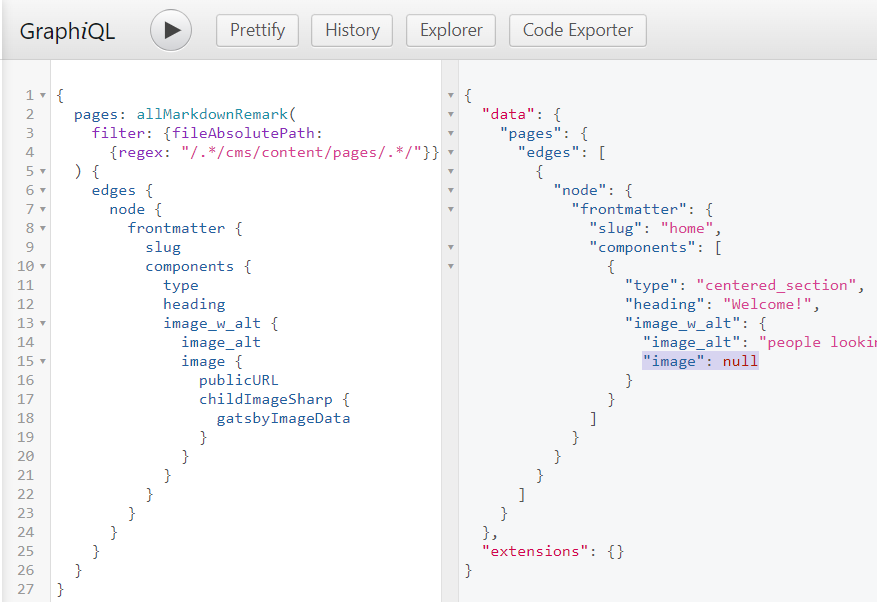
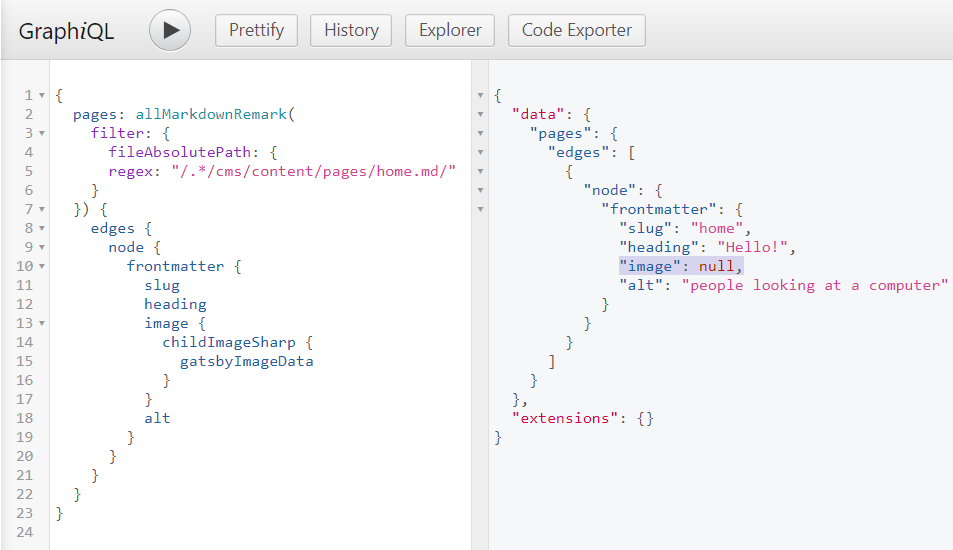
Simplify.

diff --git a/gatsby-node.ts b/gatsby-node.ts
@@ -1,61 +1,41 @@
 import { GatsbyNode } from "gatsby";
 import path from "path";
 
-type QueryBlock<T = object> = { edges: { node: { frontmatter: T } }[] };
-
-/** The bug occurs with or without these typings, but this is how our project is typed */
+/** The bug occurs with or without these typings, but this is similar to how our project is typed */
 export const createSchemaCustomization: GatsbyNode["createSchemaCustomization"] =
   ({ actions }) => {
-    const { createTypes } = actions;
-    const typeDefs = `
-      type ImageWAlt {
-        image: File @fileByRelativePath
-        image_alt: String
-      }
-
-      type Components {
-        type: String
-        heading: String
-        image_w_alt: ImageWAlt
-      }
-
+    actions.createTypes(`
       type MarkdownRemarkFrontmatter {
-        slug: String!
-        components: [Components]
+        image: File @fileByRelativePath
+        alt: String
       }
-    `;
-    createTypes(typeDefs);
+    `);
   };
 
 export const createPages: GatsbyNode["createPages"] = async ({
   actions,
   graphql,
 }) => {
-  const { createPage, createRedirect } = actions;
-
   const result = await graphql<{
-    pages: QueryBlock<{ slug: string }>;
+    pages: { edges: { node: { frontmatter: object } }[] };
   }>(`
     {
       pages: allMarkdownRemark(
-        filter: { fileAbsolutePath: { regex: "/.*/cms/content/pages/.*/" } }
+        filter: {
+          fileAbsolutePath: { regex: "/.*/cms/content/pages/home.md/" }
+        }
       ) {
         edges {
           node {
             frontmatter {
               slug
-              components {
-                type
-                heading
-                image_w_alt {
-                  image {
-                    childImageSharp {
-                      gatsbyImageData
-                    }
-                  }
-                  image_alt
+              heading
+              image {
+                childImageSharp {
+                  gatsbyImageData
                 }
               }
+              alt
             }
           }
         }
@@ -63,20 +43,13 @@ export const createPages: GatsbyNode["createPages"] = async ({
     }
   `);
 
-  if (result.errors) {
-    return Promise.reject(result.errors);
+  const context = result.data?.pages.edges?.[0].node.frontmatter;
+  if (!context) {
+    return Promise.reject(`query failed ${JSON.stringify(result, null, 2)}`);
   }
-  if (!result.data?.pages?.edges?.length) {
-    return Promise.reject("createPages query failed: no data");
-  }
-
-  const pageData = result.data.pages.edges.map((e) => e.node.frontmatter);
-  pageData.forEach((data) => {
-    const pagePath = data.slug === "home" ? "/" : `/${data.slug}/`;
-    createPage({
-      path: pagePath,
-      component: path.resolve(`src/templates/page.tsx`),
-      context: data,
-    });
+  actions.createPage({
+    path: "/",
+    component: path.resolve(`src/templates/page.tsx`),
+    context,
   });
 };

diff --git a/src/templates/page.tsx b/src/templates/page.tsx
@@ -4,40 +4,20 @@ import React, { FC } from "react";
 
 type PageTemplateProps = GatsbyPageProps<
   object,
-  { slug: string; components: Section[] }
+  {
+    heading: string;
+    image: { childImageSharp: { gatsbyImageData: IGatsbyImageData } };
+    alt: string;
+  }
 >;
-type Section = { type: string };
-type ImageWithAlt = {
-  image: { childImageSharp: { gatsbyImageData: IGatsbyImageData } };
-  image_alt: string;
-};
-
-type CenteredSection = Section & {
-  heading: string;
-  image_w_alt: ImageWithAlt;
-};
-
-const isCenteredSection = (data): data is CenteredSection =>
-  data.type === "centered_section";
 
 const PageTemplate: FC<PageTemplateProps> = ({ pageContext }) => {
+  const { gatsbyImageData } = pageContext.image.childImageSharp;
+  const image = getImage(gatsbyImageData);
   return (
     <>
-      <h1>{pageContext.slug}</h1>
-      {pageContext.components.map((c) => {
-        if (isCenteredSection(c)) {
-          const { gatsbyImageData } = c.image_w_alt.image.childImageSharp;
-          const image = getImage(gatsbyImageData);
-          return (
-            <>
-              <h2>{c.heading}</h2>
-              {image && (
-                <GatsbyImage image={image} alt={c.image_w_alt.image_alt} />
-              )}
-            </>
-          );
-        }
-      })}
+      <h2>{pageContext.heading}</h2>
+      {image && <GatsbyImage image={image} alt={pageContext.alt} />}
     </>
   );
 };

diff --git a/gatsby-config.ts b/gatsby-config.ts
@@ -45,6 +45,7 @@ const config: GatsbyConfig = {
       options: {
         plugins: [
           {
+            /* This is needed for Netlify CMS to correctly source uploads from static */
             resolve: `gatsby-remark-relative-images`,
             options: { staticFolderName: "static" },
           },
@@ -55,9 +56,10 @@ const config: GatsbyConfig = {
         ],
       },
     },
+    /* We're using this but it's not important for the repro steps
     {
       resolve: "gatsby-plugin-netlify-cms",
-    },
+    }, */
   ],
 };
 

diff --git a/README.md b/README.md
@@ -4,15 +4,12 @@ The Gatsby graph fails to query images in certain situations in a Netlify CMS pr
 
 #### Repro Steps:
 
-- `yarn` and `yarn develop`, the image will load fine in the dev server.
-- Open [GraphiQL](http://localhost:8000/___graphql) and paste the query from gatsby-node.ts
+- `yarn`, `yarn develop`, open [this GraphiQL query](<http://localhost:8000/___graphql?query=%7B%0A%20%20pages%3A%20allMarkdownRemark(%0A%20%20%20%20filter%3A%20%7B%0A%20%20%20%20%20%20fileAbsolutePath%3A%20%7B%0A%20%20%20%20%20%20regex%3A%20%22%2F.*%2Fcms%2Fcontent%2Fpages%2Fhome.md%2F%22%0A%20%20%20%20%7D%0A%20%20%7D)%20%7B%0A%20%20%20%20edges%20%7B%0A%20%20%20%20%20%20node%20%7B%0A%20%20%20%20%20%20%20%20frontmatter%20%7B%0A%20%20%20%20%20%20%20%20%20%20slug%0A%20%20%20%20%20%20%20%20%20%20heading%0A%20%20%20%20%20%20%20%20%20%20image%20%7B%0A%20%20%20%20%20%20%20%20%20%20%20%20childImageSharp%20%7B%0A%20%20%20%20%20%20%20%20%20%20%20%20%20%20gatsbyImageData%0A%20%20%20%20%20%20%20%20%20%20%20%20%7D%0A%20%20%20%20%20%20%20%20%20%20%7D%0A%20%20%20%20%20%20%20%20%20%20alt%0A%20%20%20%20%20%20%20%20%7D%0A%20%20%20%20%20%20%7D%0A%20%20%20%20%7D%0A%20%20%7D%0A%7D>)
+  (or paste the `createPages` query from gatsby-node.ts)
 - Bug! You'll see `"image": null` in GraphiQL.
-
-#### Bug behavior:
-
-- Now open the file `src/cms/content/pages/home.md` and change the `type: centered_section`
-  to any other string -- the GraphiQL query succeeds!
-- It will continue to succeed after a change is made, even if you change it back.
+- Open [home.md](src/cms/content/pages/home.md) and make any change to `heading` or `alt`
+  -- GraphiQL query succeeds!
+- Restarting the dev server will reset the bug state
 
 ![screenshot](./null-image-bug.png)
 

diff --git a/src/cms/content/pages/home.md b/src/cms/content/pages/home.md
@@ -1,9 +1,6 @@
 ---
 slug: home
-components:
-  - type: centered_section
-    heading: Welcome!
-    image_w_alt:
-      image: /assets/group-looking-at-monitor.jpg
-      image_alt: people looking at a computer
+heading: Hello!
+image: /assets/group-looking-at-monitor.jpg
+alt: people looking at a computer
 ---
